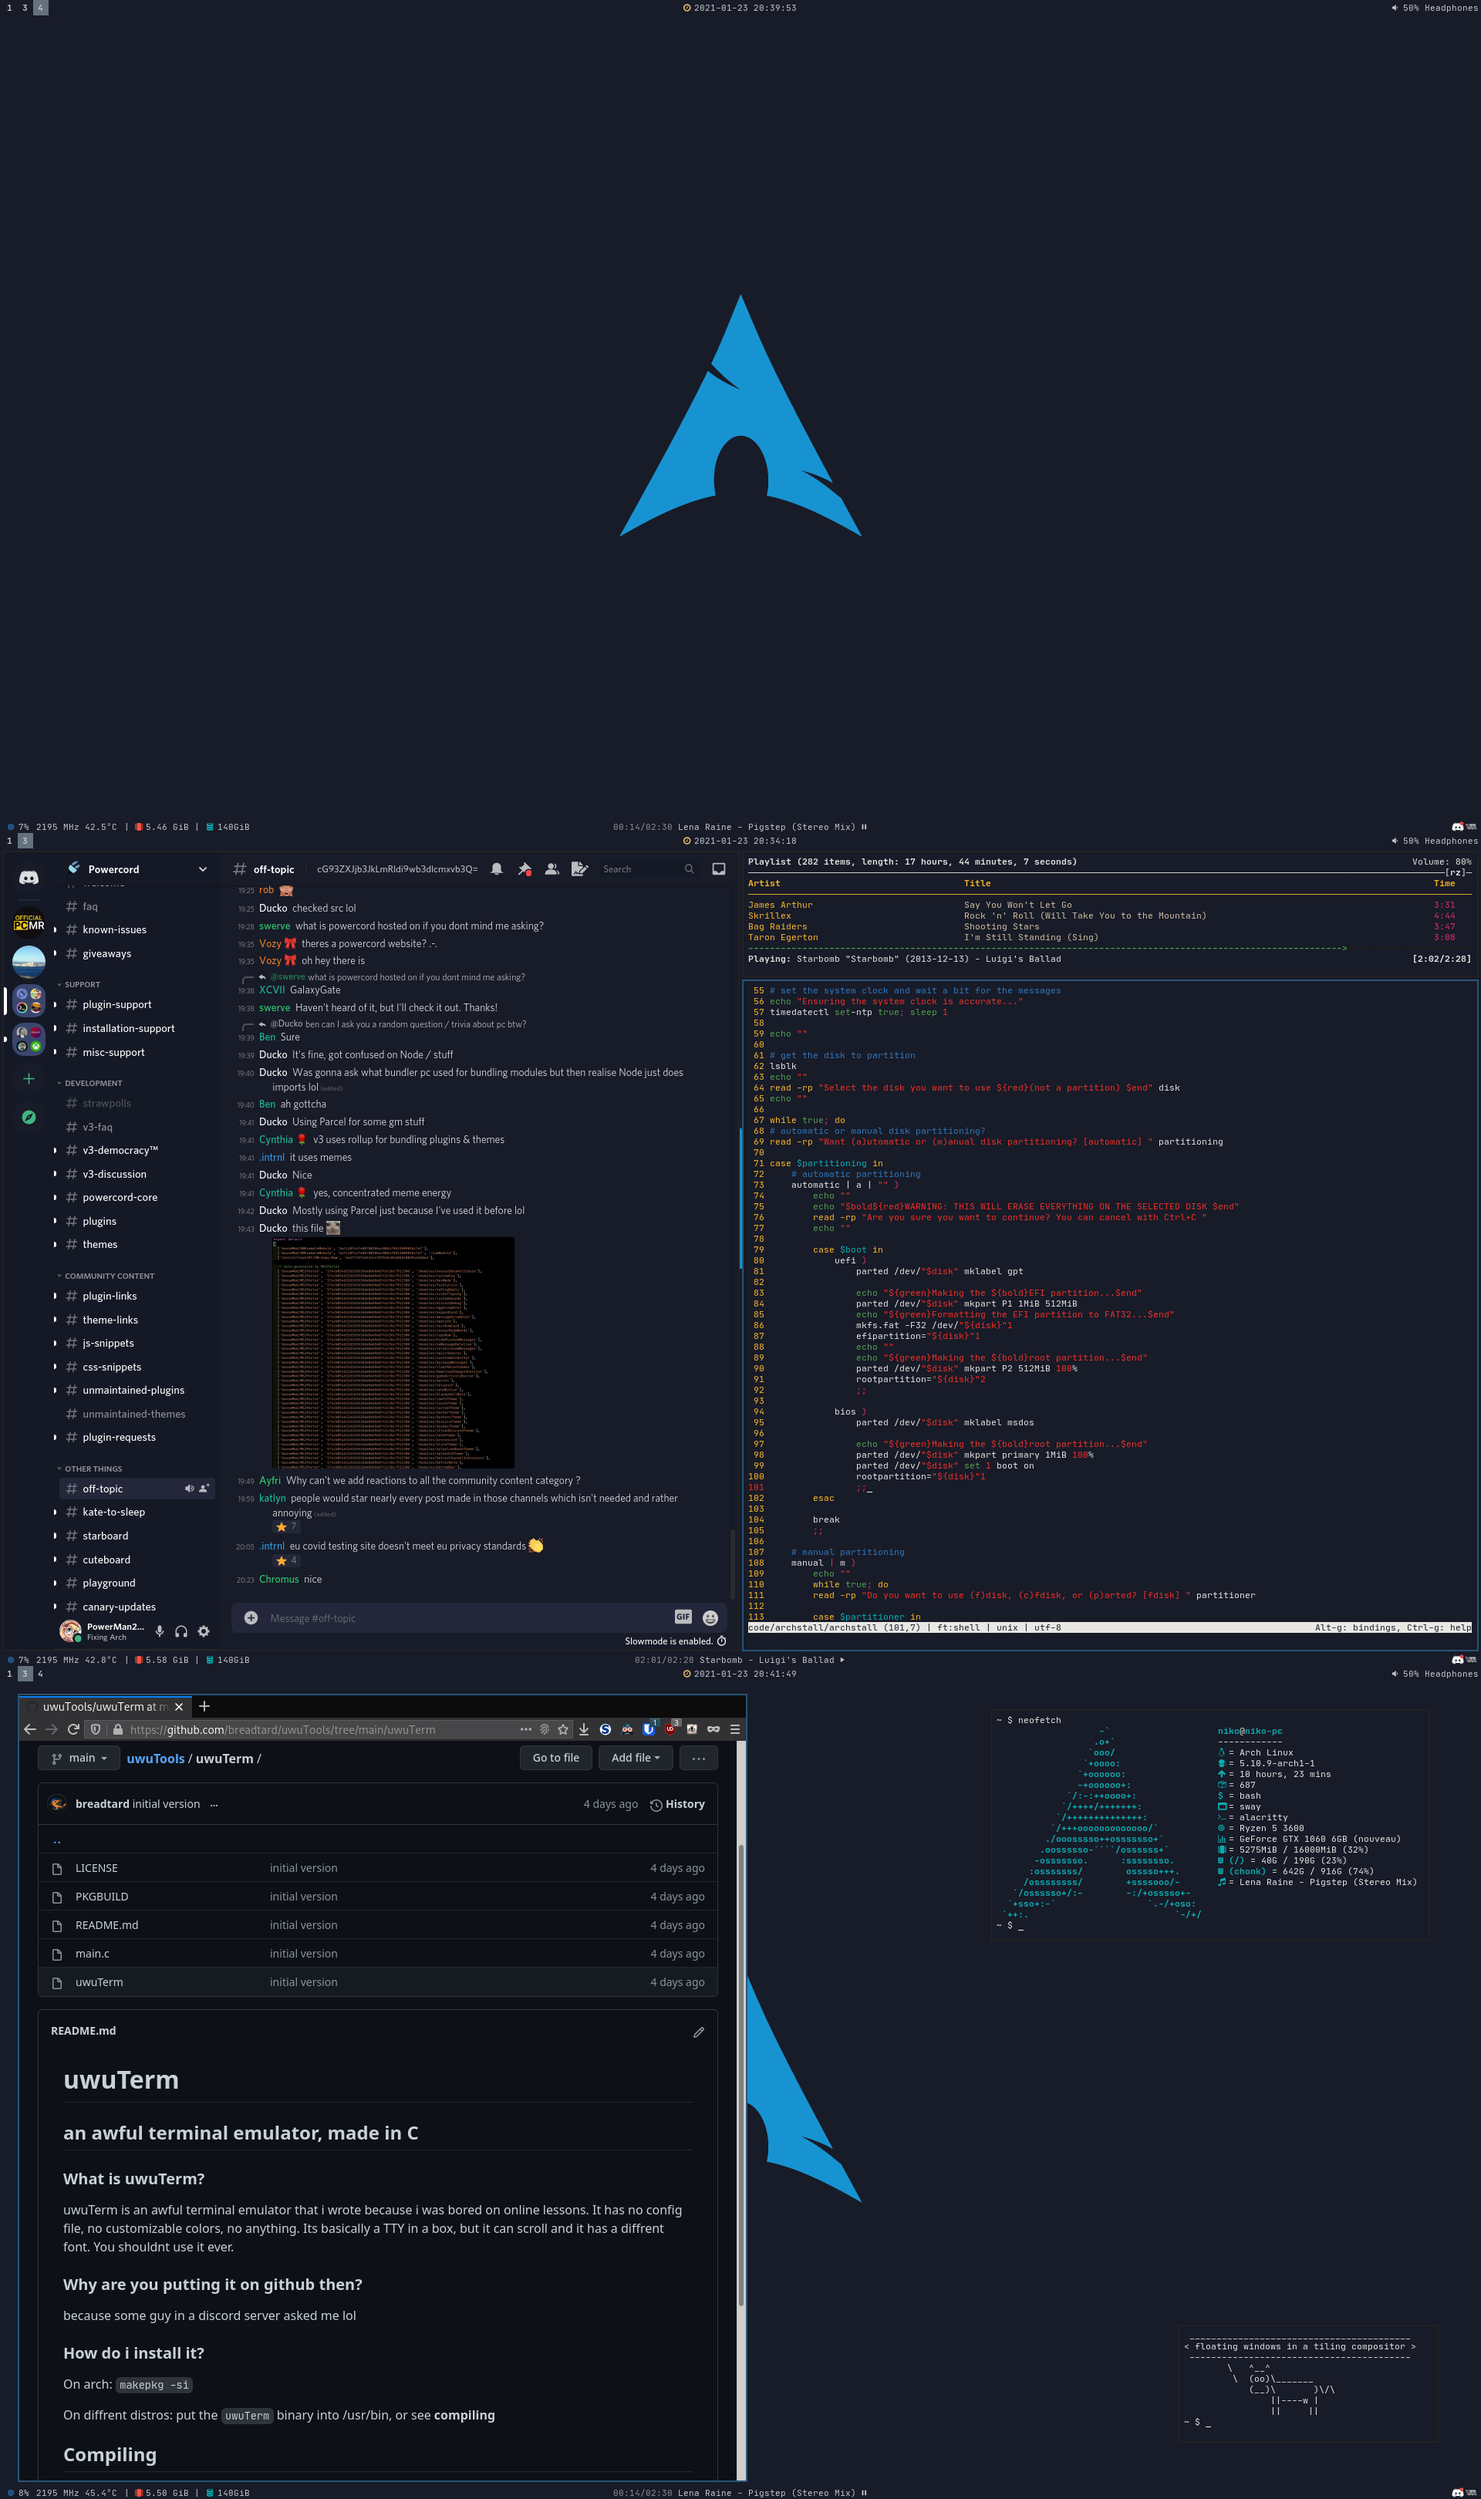
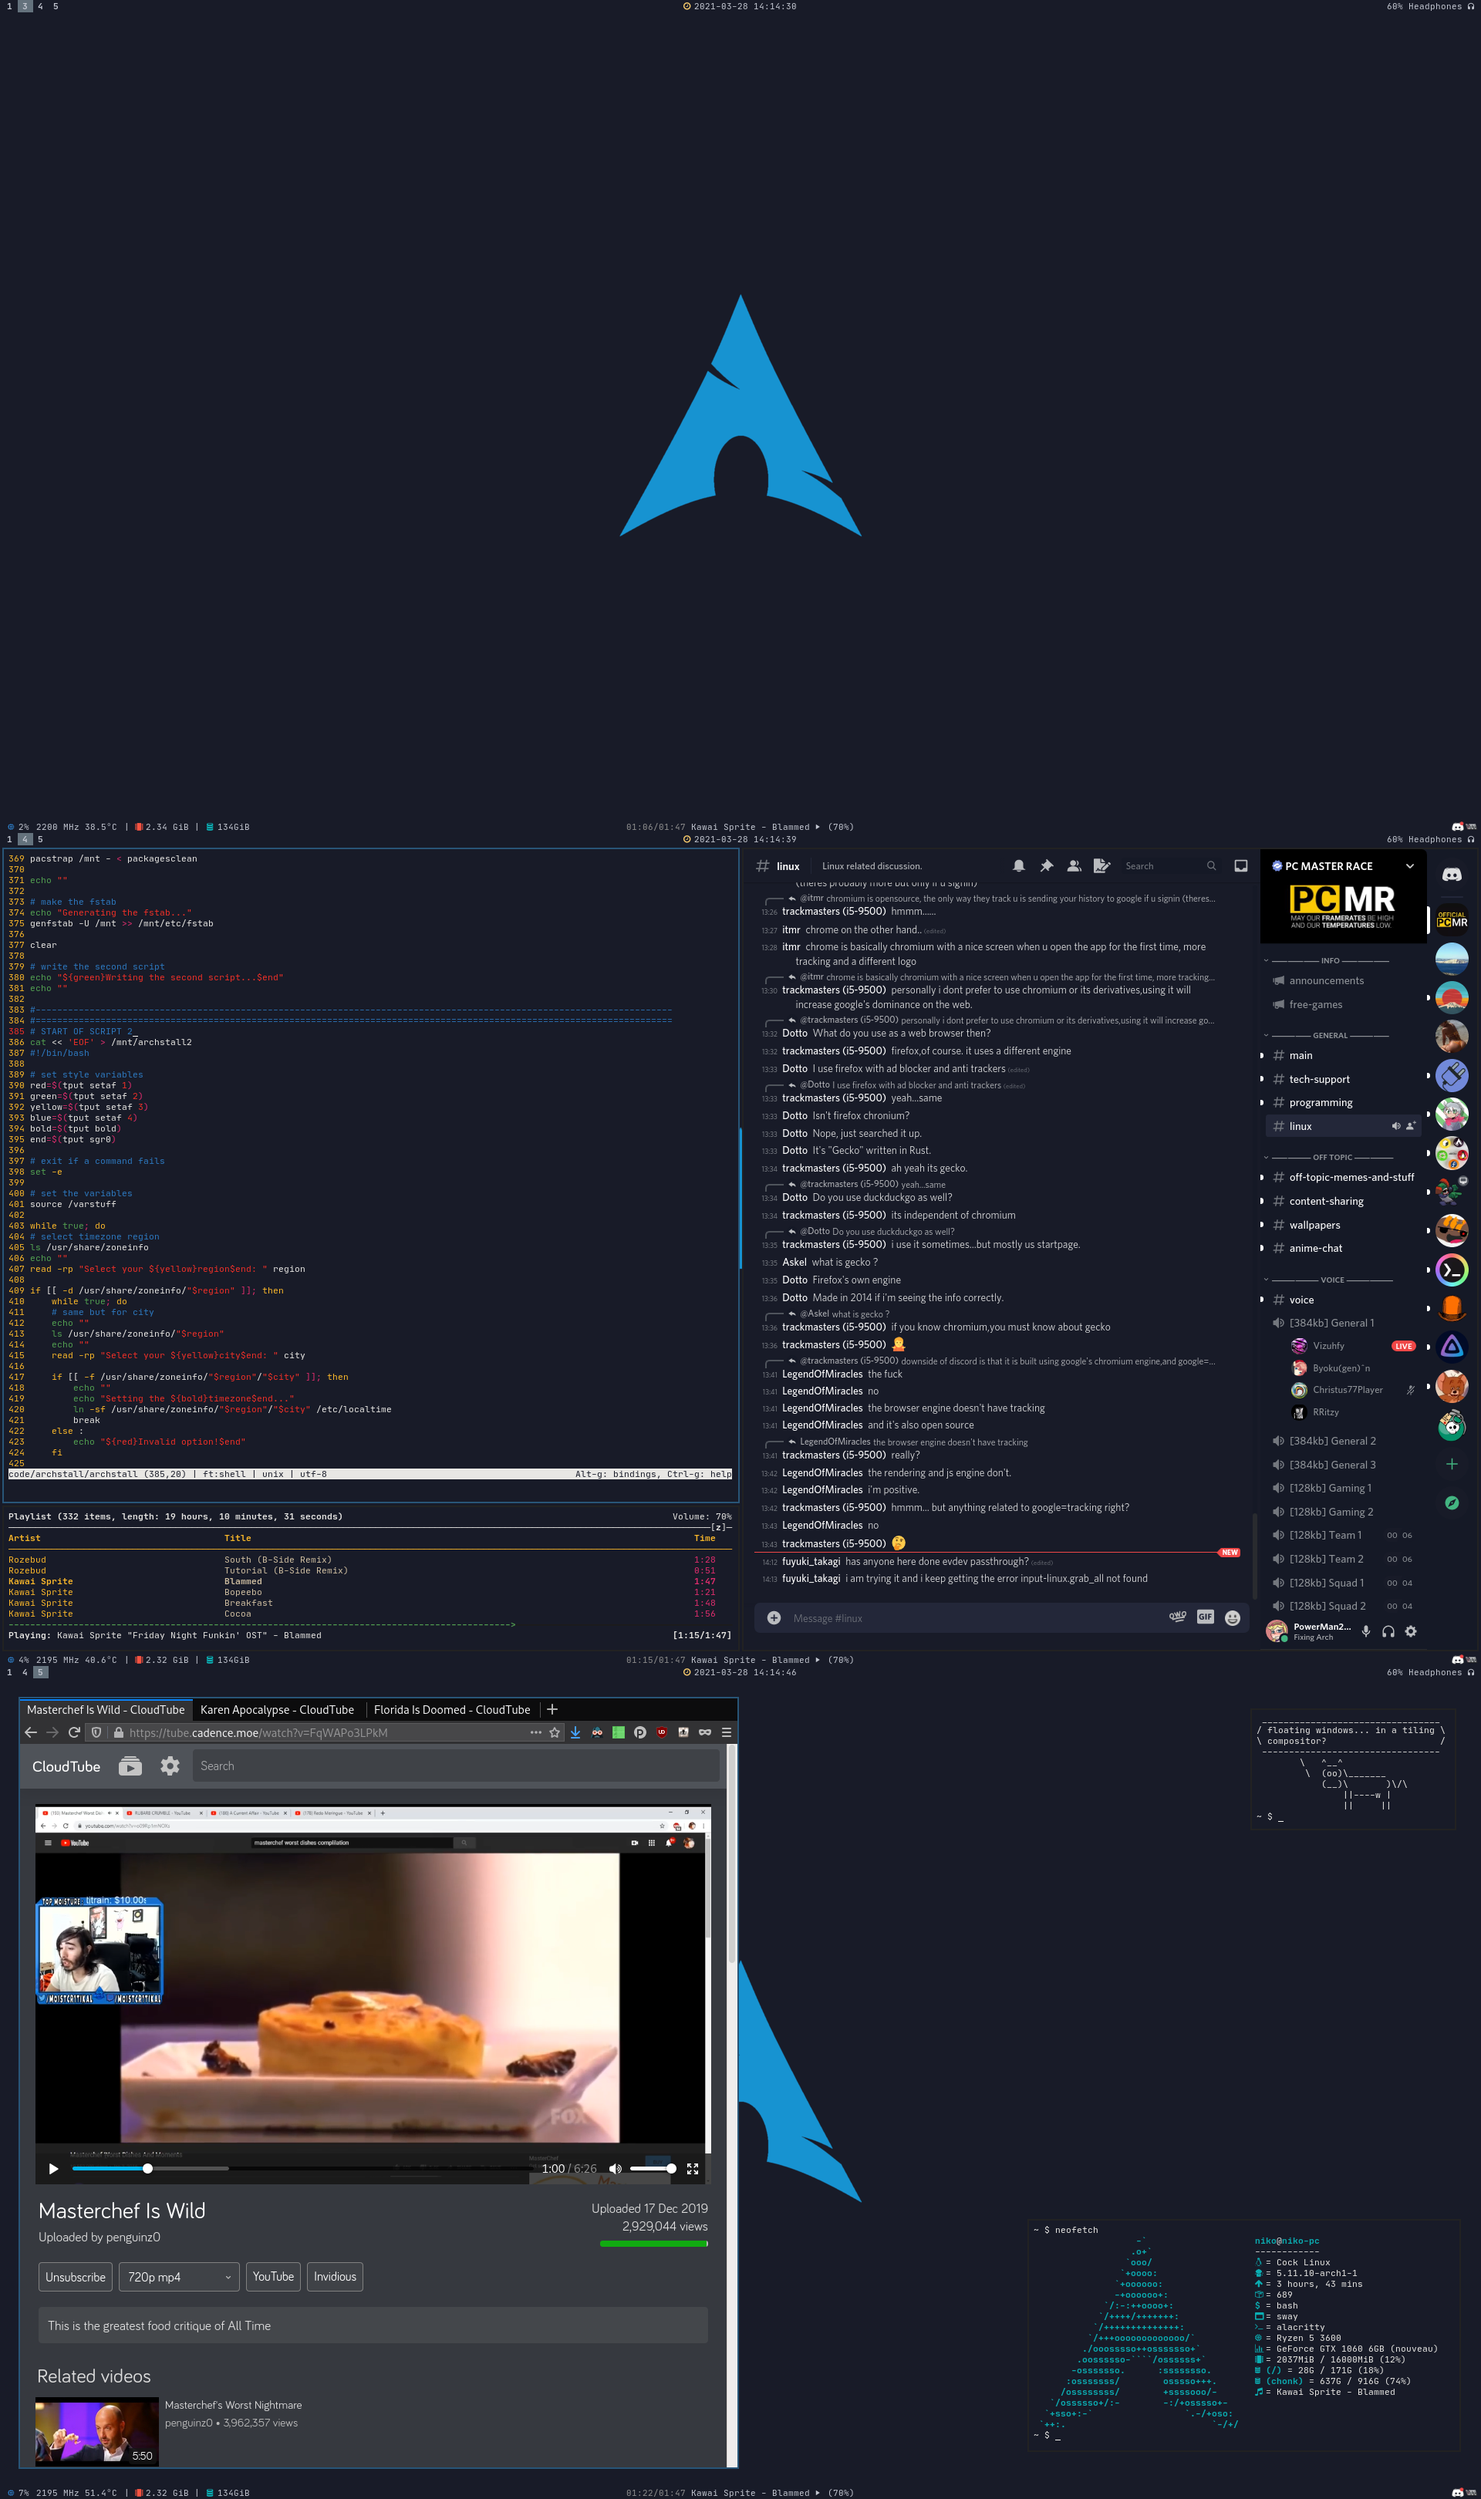
Powercord theme update and new screenshot

diff --git a/.powercord/src/Powercord/themes/Sweet/index.css b/.powercord/src/Powercord/themes/Sweet/index.css
@@ -27,3 +27,23 @@
     --channeltextarea-background: #232739;
     --activity-card-background: #232739;
 }
+
+/* Powerstuff */
+.content-98HsJk > div:nth-child(2) {
+  order:-1;
+}
+
+#app-mount .guilds-1SWlCJ {
+    right: 0;
+    left: auto;
+}
+
+#app-mount .base-3dtUhz {
+    left: 0;
+    right: 72px;
+    border-radius: 0 8px 0 0;
+}
+
+#app-mount .sidebar-2K8pFh {
+    border-radius: 0;
+}
